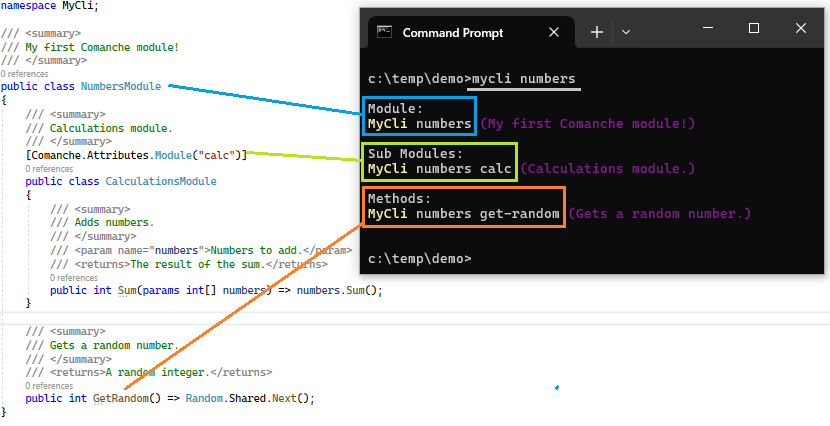
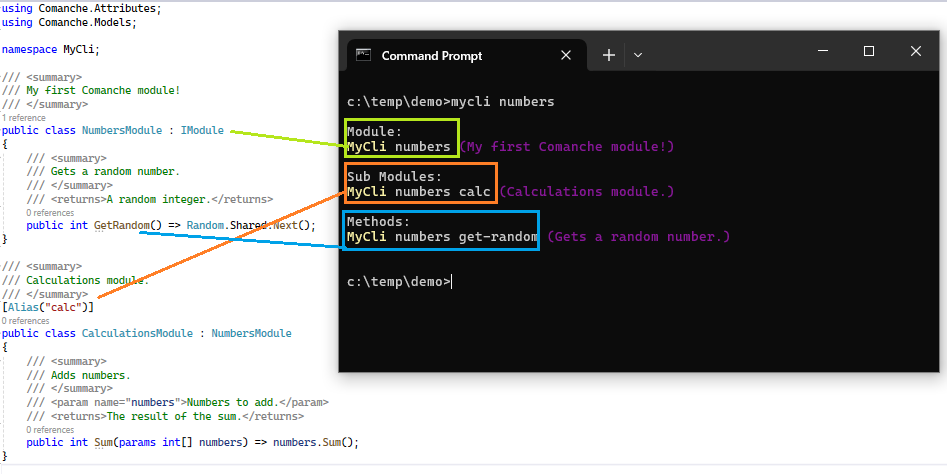
Documentation changes

diff --git a/README.md b/README.md
@@ -1,6 +1,6 @@
 # Comanche
 ## Overview
-Comanche is a module-discovery library for the command line. 
+Comanche is a module-discovery library for the command line.
 
 It is designed to work for *you, the developer* by allowing you to write your code. It will sit back until CLI invocation, where it dynamically discovers and relays it (just the bits you want).
 
@@ -15,13 +15,13 @@ Now you can build and ship your executable as normal..
 
 .. But **please keep reading!** There are many more time-saving features to explore below.
 
-![easy as 1 2 3](docs/123.png)
+![easy as 1 2 3](https://raw.githubusercontent.com/ne1410s/Comanche/main/docs/123.png)
 
 ## Development Guide
 This section provides guidance on how to make use of all of the features and functionality of Comanche!
 
 ### Structure
-Broadly speaking, there are two types of command: discovery and invocation. All invocation commands are made available in the following format:
+Broadly speaking, there are two types of command a CLI user can run: discovery and invocation. All *invocation* commands are made available in the following format:
 
 > `assembly`&nbsp;&nbsp;`module`&nbsp;&nbsp;`[..sub-modules]`&nbsp;&nbsp;`method`&nbsp;&nbsp;`[..params]`
 
@@ -29,20 +29,24 @@ You can organise your coding entities to yield your desired CLI experience and t
 
 In order to set the `assembly` part above, this can be done by setting the `<AssemblyName>` property in your csproj file. Note that this will be case-sensitive in Unix systems.
 
-![sub module](docs/sub-module.png)
+![sub module](https://raw.githubusercontent.com/ne1410s/Comanche/main/docs/sub-module.png)
 
 #### Modules
-A Comanche Module is the direct equivalent to a C# `class`. As well as its own methods, it can also contain nested classes, which become sub-modules in Comanche.
+A Comanche Module is the direct equivalent to a C# `class`. As well as its own methods, it can also contain sub-classes that inherit from it, which become sub-modules on the Comanche CLI.
 
-By default, Comanche discovery attempts to expose *all* public classes in the console app to the CLI. To prevent a class from being exposed, there are several supported options:
+Comanche exposes classes as CLI modules if they:
+- Inherit from `Comanche.Models.IModule`
+- Are public (or nested public)
+- Are not abstract
+- Do not have the `[Hidden]` attribute
 
-- Decorate the classes you do *not* wish to expose with the `[Hidden]` attribute
-- Set the `moduleOptIn` parameter to `true` in the call to `Discover.Go()`.  In this mode, only modules decorated with the `[Module]` attribute will be exposed to the CLI. (This also allows for an alias to be provided to the module, as per the above screenshot)
-- Modify the class access to a non-public scope, such as `internal` or `private` (if appropriate)
+ To prevent a class from being exposed, there are several options, but the `[Hidden]` attribute should always function as expected.
 
-Also by default is the module naming convention. Any "Module" suffix is removed and the remaining terms are transformed to "kebab-case". This can be overriden by providing a custom name in `[Module]` attribute.
+There is a module naming convention. Any "Module" suffix is removed and the remaining terms are transformed to "kebab-case". This can be overriden by providing a custom name in an `[Alias]` attribute.
 
-Note that `static` classes and methods are supported by Comanche, but it should be noted that module-scoped dependency injection is not possible with a static class.
+It is perfectly possible to *nest* classes, if you so wish, but the module structure as it appears in the Comanche CLI is determined purely from class inheritance. (This has been the case since `v1.1.0` Before that, class nesting was the single means to determine module structure).
+
+Note that `static class`es are not supported as modules by Comanche (dropped in `v1.1.0`). This is due to the inheritance mechanism by which the CLI structure is formed, which is not applicable to static classes. Static *methods* are still supported on qualifying modules - but clearly any dependencies injected at the module/class level cannot be used by them.
 
 #### Methods
 A Comanche Method is the direct equivalent to a C# `method`.  As with Modules, the `[Hidden]` attribute is supported for methods too. This means the method will not appear in the CLI discovery help, nor be reachable in any other way. Only `public` classes are exposed to Comanche.
@@ -65,13 +69,13 @@ Invocation results are returned to the CLR from the `Discover.Go()` call. Return
 There are several optional parameters available on this top-level method. Some of which are there purely to support debugging and/or unit testing. The most useful functional parameters are described here:
 |Parameter|Description|
 |--|--|
-|`moduleOptIn` [boolean = False]|Whether the `[Module]` attribute is needed in order for a class to be exposed.|
 |`services` [IServiceCollection = null]|Set of injected dependencies that will be delivered to class ctors and methods.|
+|`args` [string[] = null]|Provided for debugging support (See [Debugging](#debugging) section).|
 
 ### Debugging
 One of the parameters in `Discover.Go()` is the familiar `args` object array. This is useful for debugging, as you can pass in the same string as per the CLI command and the run will essentially be the same, with the key difference being you have the execution thread! Your IDE should automatically provide a console window, so you can simulate the full user experience.
 
-If you use appropriate abstractions (like the [IOutputWriter](#output-writer)) then even the end-to-end is unit-testable, as you can invoke Discover.Go() with whatever command text you require.
+If you use appropriate abstractions (like the [IConsole](#iconsole)) then even the end-to-end is unit-testable, as you can invoke Discover.Go() with whatever command text you require.
 
 ```csharp
 string? debugCommand = null;
@@ -100,8 +104,26 @@ As we're doing DI, it would be rude *not* to support `IConfiguration` :D You can
 
 To make use of the config mechanism, add your json file / env vars and simply define `IConfiguration config` as a parameter - at either the class ctor or method level.
 
-### Output Writer
-`[IOutputWriter]` is used internally by Comanche for writing to stdout (and stderr on occasion!) in a unit-testable way. It also has basic prompt/capture capabilities. It is injected via DI to every Comanche method call as a courtesy (but I won't be offended if you don't use it!).
+### IConsole
+`[IConsole]` is used internally by Comanche for writing to stdout (and stderr on occasion!) in a unit-testable way. It also has basic prompt/capture capabilities. It is injected via DI to every Comanche method call as a courtesy (but I won't be offended if you don't use it!).
+
+### ComanchePalette
+Since `v1.1.0` Comanche's colour scheme for internal use is configurable! Simply pass a service collection with a ComanchePalette registered:
+```csharp
+// Program.cs
+var services = new ServiceCollection();
+services.AddSingleton(_ => new ComanchePalette { ... });
+...
+Discover.Go(services);
+```
+The following strcuture is used:
+|Palette Property|Default Value|
+|--|--|
+|`Default`|*< current foreground >*|
+|`Primary`|Yellow|
+|`Secondary`|Blue|
+|`Tertiary`|DarkMagenta|
+|`Error`|Red|
 
 ### Publishing
 In order to release your Comanche app to the wild, it is recommended that you publish it using Release configuration, embedding debug symbols. For even greater portability, you can choose to publish as a single file.
@@ -116,7 +138,7 @@ dotnet publish MY_COMANCHE_PROJECT -p:PublishSingleFile=true -p:DebugType=Embedd
 This section provides guidance on how to discover and use  all of the functionality within any given Comanche CLI tool!
 
 ### Basic Commands
-Assuming the tool (.exe in Windows) is available within your context (i.e. in your current directory, or on your PATH), just typing the name of the assembly gets you started, by returning some basic info including the tool's published assembly version and a list of top-level modules, which it refers to as Sub Modules of the main tool.
+Assuming the tool (e.g. the .exe in Windows) is available within your context (i.e. in your current directory, or on your PATH), just typing the name of the assembly gets you started, by returning some basic info including the tool's published assembly version and a list of top-level modules, which it refers to as Sub Modules of the main tool.
 
 ### Route Validation
 Routing is the bit that maps your command text down to a particular method. This needs to run successfully in order for Comanche to move on to parameter validation and finally execution. If a route is not understood by Comanche, a message is written to stderr in angry red text, which should provide full clarity on the issue.
@@ -126,7 +148,7 @@ Assuming a route is found, Comanche can start checking the supplied parameters a
 
 ### Boolean Flags
 Boolean flags offer a short-hand, where you only need to provide the flag name to indicate `true`. You can pass `true` explicitly to the same effect. The value can be explicitly negated, as follows:
-> `assembly module method --force false`  
+> `assembly module method --force false`
 
 ### Enum Values
 Enum handling is designed to be versatile between strings and numeric values. Therefore either one is acceptable for the parameter to be correctly understood. Note that in return values, the string form is used.
